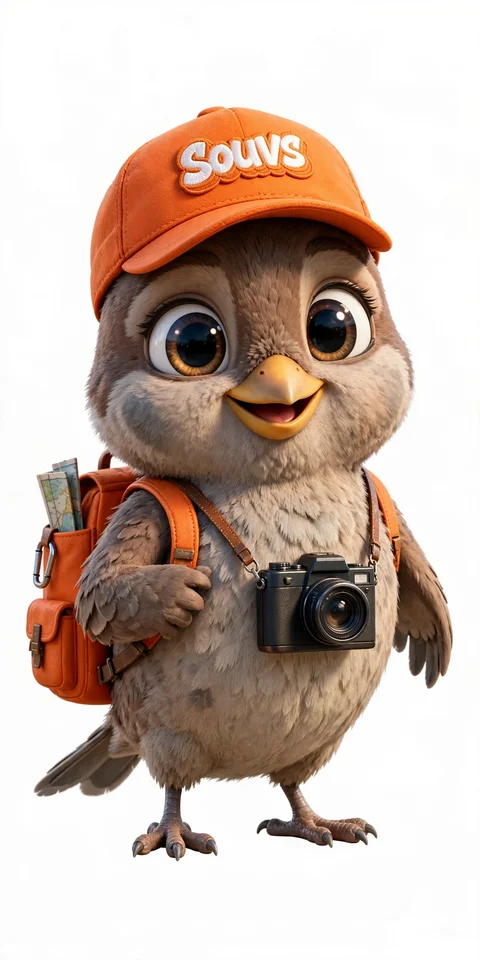
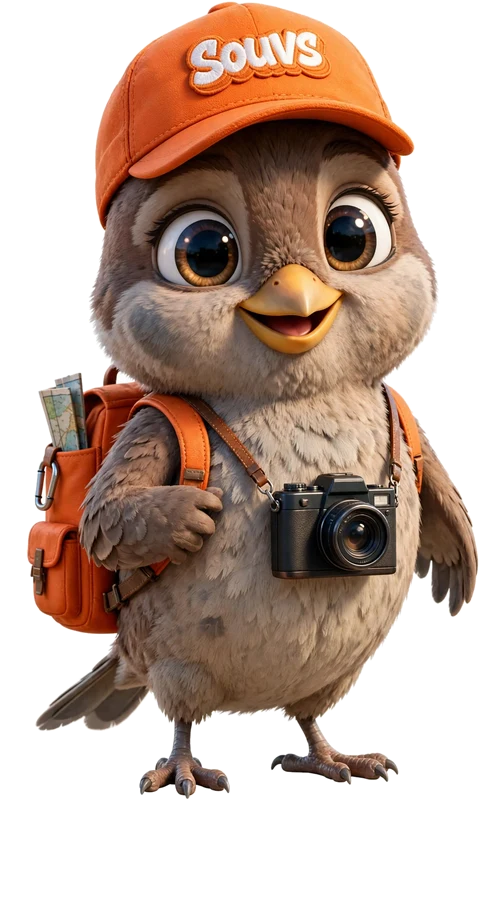
Mascot: transparent cutout + added to home hero

diff --git a/index.html b/index.html
@@ -70,7 +70,7 @@
     .view{display:none;animation:appear .26s ease both}.view.active{display:block}@keyframes appear{from{opacity:.2;transform:translateY(8px)}to{opacity:1;transform:none}}
     h1,h2,h3{margin-top:0;letter-spacing:-.045em;line-height:.96;font-weight:900}.eyebrow{margin:0 0 10px;color:var(--pink-dark);font-size:12px;line-height:1;letter-spacing:.08em;text-transform:uppercase;font-weight:900}
     .primary,.secondary,.text-button{border:0;cursor:pointer;font-weight:900}.primary{min-height:48px;padding:13px 20px;border-radius:16px;background:var(--pink);color:#fff;box-shadow:4px 5px 0 var(--navy)}.secondary{min-height:44px;padding:11px 15px;border:1px solid var(--line);border-radius:14px;background:#fff;color:var(--navy)}.text-button{padding:9px 4px;background:transparent;color:var(--pink-dark)}
-    .hero{position:relative;isolation:isolate;overflow:hidden;padding:22px 42px 14px;background:transparent}
+    .hero{position:relative;isolation:isolate;overflow:hidden;padding:22px 42px 14px;background:transparent;display:flex;align-items:flex-end;justify-content:space-between;gap:12px}.hero-mascot{position:relative;z-index:5;flex:none;height:clamp(150px,24vw,270px);width:auto;pointer-events:none;filter:drop-shadow(0 16px 22px rgba(20,16,40,.35))}
     .hero-copy{position:relative;z-index:5;max-width:630px}.hero-hello{margin:0 0 2px;font-size:clamp(22px,2.8vw,38px);line-height:1;font-weight:900;letter-spacing:-.02em;color:var(--navy)}.hero h1{max-width:660px;margin:6px 0 8px;color:var(--navy);font-size:clamp(52px,7vw,92px);line-height:.84}.hero-sub{max-width:560px;margin:0 0 10px;color:var(--muted);font-size:26px;font-weight:700}.hero-actions{position:relative;z-index:8;display:flex;flex-wrap:wrap;align-items:stretch;justify-content:flex-end;gap:14px}html[data-has-profile="1"] [data-i18n="hero_join"]{display:none}html[data-has-profile="1"] [data-i18n="meet_cta"]{display:none}
     @keyframes float{50%{translate:0 -7px}}
     .guide-section{margin-top:14px}.guide-grid.slideshow{display:block;position:relative}.guide-grid.slideshow .guide-card{display:none;width:100%}.guide-grid.slideshow .guide-card.slide-on{display:grid;animation:guideSlideIn .45s ease}@keyframes guideSlideIn{from{opacity:0;transform:translateX(36px)}to{opacity:1;transform:none}}.guide-dots{display:flex;justify-content:center;gap:8px;margin:14px 0 0}.guide-dots button{width:10px;height:10px;border-radius:999px;border:0;background:rgba(255,255,255,.45);cursor:pointer;padding:0}.guide-dots button.on{background:var(--navy);transform:scale(1.3)}.section-title{display:flex;justify-content:space-between;align-items:end;gap:28px;margin:0 6px 25px;color:#fff}.section-title h2,.screen-head h1{margin:0;font-size:clamp(38px,5vw,62px);line-height:.95}.section-title>p{max-width:410px;margin:0;font-size:17px}.section-title .eyebrow,.screen-head .eyebrow{color:#fff}.guide-grid{display:grid;grid-template-columns:repeat(2,minmax(0,1fr));gap:18px}.guide-card{position:relative;overflow:hidden;min-height:238px;display:grid;grid-template-columns:43% 57%;padding:0;border:0;border-radius:30px 22px 34px 25px;background:transparent;text-align:left;cursor:pointer;transition:transform .2s ease}.guide-card:nth-child(even){border-radius:22px 34px 24px 31px}.guide-card:hover{transform:translateY(-4px)}.guide-card.pink .guide-nameblock{background:var(--violet)}.guide-card.peach .guide-nameblock{background:var(--peach)}.guide-card.violet .guide-nameblock{background:var(--mint)}.guide-art{position:relative;overflow:hidden;min-height:100%}.guide-art img{position:absolute;left:0;bottom:0;width:100%;max-width:none;height:100%;object-fit:contain;object-position:center;transform:scale(.94);filter:drop-shadow(0 15px 15px rgba(42,32,72,.16))}.guide-copy{position:relative;display:flex;flex-direction:column;align-items:flex-start;padding:27px 24px 23px 4px;color:var(--navy)}.guide-nameblock{display:block;background:var(--blue);border-radius:18px 14px 19px 15px;padding:12px 16px 13px}.guide-nameblock h3{margin:0 0 4px;font-size:clamp(29px,3vw,42px)}.guide-nameblock .guide-role{margin:0;font-weight:800}.guide-line{margin:0 0 17px;font-size:15px}.tags{display:flex;flex-wrap:wrap;gap:5px;margin-bottom:10px}.tags span{padding:4px 7px;border-radius:8px;background:rgba(255,255,255,.48);font-size:10px;font-weight:800}.guide-copy strong{margin-top:10px;padding:8px 10px;border-radius:10px;background:var(--blue);color:#fff;font-size:13px}
@@ -89,7 +89,7 @@
     @media(max-width:640px){
       .app{padding:max(4px,env(safe-area-inset-top)) 12px 104px}.header{min-height:92px;padding:0 2px 4px}.logo{width:auto;height:46px;max-width:64vw;flex-shrink:1}.city-button{min-height:40px;padding:8px 10px;font-size:13px}.city-menu{position:fixed;top:max(72px,calc(env(safe-area-inset-top) + 58px));right:12px}
       .lang-menu{position:fixed;top:max(72px,calc(env(safe-area-inset-top) + 58px));right:12px}
-      .hero{padding:6px 20px 4px;border-radius:29px 22px 33px 24px}.hero h1{max-width:390px;font-size:52px}.hero-sub{max-width:340px;font-size:20px}
+      .hero{padding:6px 20px 4px;border-radius:29px 22px 33px 24px}.hero h1{max-width:390px;font-size:52px}.hero-sub{max-width:340px;font-size:20px}.hero-mascot{height:132px}
       .guide-section{margin-top:6px}.section-title{display:block}.section-title h2,.screen-head h1{font-size:42px}.section-title>p{margin-top:12px;font-size:15px}.guide-grid{grid-template-columns:1fr;gap:13px}.guide-card{min-height:224px;grid-template-columns:42% 58%}.guide-copy{padding:22px 18px 20px 2px}.meetup-section{margin-top:48px;padding:27px 20px;border-radius:28px 21px 31px 23px}.meetup-head h2{font-size:42px}#homeView .meetup-head h2{font-size:clamp(26px,8.5vw,32px);white-space:nowrap}#homeView .meetup-head>p{font-size:clamp(11px,3.4vw,13px);white-space:nowrap}#meetSection .meetup-head h2{font-size:clamp(16px,5.2vw,21px);white-space:nowrap}.meet-choice{grid-template-columns:1fr}.meet-grid{grid-template-columns:repeat(3,minmax(0,1fr));gap:8px}.meet-card{grid-template-columns:1fr;padding:17px 14px}.profile-card{flex-direction:column}.meet-avatar,.meet-avatar-img{width:156px;height:156px}.meet-card button{width:100%;grid-column:1/-1}.profile-travelers{grid-template-columns:repeat(3,minmax(0,1fr));gap:8px;align-items:stretch}.meet-grid{align-items:stretch}.profile-travelers.profile-travelers .meet-card,.meet-grid .meet-card{padding:10px 8px;gap:6px;align-content:start}.profile-travelers .meet-sayhi,.meet-grid .meet-sayhi{margin-top:auto;font-size:12px;padding:8px 10px;border-radius:10px}.profile-travelers .meet-card .meet-note,.meet-grid .meet-card .meet-note,.profile-travelers .meet-card p.muted,.meet-grid .meet-card p.muted{display:none}.profile-travelers .meet-avatar,.meet-grid .meet-avatar,.meet-avatar-img,.meet-grid .meet-avatar-img,.profile-travelers .meet-avatar-img{width:84px;height:84px;font-size:30px;border-radius:26px 20px 28px 22px}.profile-travelers .meet-card h3,.meet-grid .meet-card h3{font-size:13px;margin:5px 0 2px;line-height:1.2}.profile-travelers .meet-card p,.meet-grid .meet-card p{font-size:10px;margin:3px 0;line-height:1.35}.profile-travelers .meet-kind span,.meet-grid .meet-kind span{font-size:8px;padding:3px 6px}.profile-travelers .meet-card button,.meet-grid .meet-card button{padding:8px 6px;font-size:11px}.deal-banner{grid-template-columns:1fr;padding:20px 13px 12px;margin-top:48px}.deal-copy h2{font-size:31px}.deal-copy{display:flex;flex-direction:column;align-items:center;justify-content:center;text-align:center;min-height:100%}.deal-copy .primary{align-self:center}.gift{width:290px;height:270px}
       .screen-head{margin-top:18px}.guide-tabs{gap:16px}.guide-tabs img{width:168px;height:168px}.chat-shell{grid-template-columns:1fr;min-height:670px;border-radius:24px}.chat-profile{padding:26px 18px}.chat-profile img{width:auto;max-width:88%;max-height:380px;height:auto}.chat-profile h2{font-size:32px}.messages{min-height:340px;padding:15px}.bubble{max-width:90%}.suggestions{display:grid;grid-template-columns:1fr;align-items:stretch}.suggestions button{text-align:left}.composer{padding:10px}.composer button{padding-inline:12px}
       .tour-hero{grid-template-columns:1fr;padding:22px}.tour-progress{text-align:left}.tour-controls,.stops{padding-inline:18px}.stop{grid-template-columns:37px minmax(0,1fr) 56px;gap:9px}.stop h3{font-size:21px}.stop p{font-size:12px}.stop-guide{width:54px;height:58px}.tour-callout{margin-inline:18px}.perk-stage{gap:12px}.unbox-panel{min-height:390px;padding:20px}.gift.openable{width:230px;height:220px}.claim-card{padding:22px}.claim-card h2{font-size:38px}.wallet{padding:21px}.wallet-head h2{font-size:29px}.wallet-grid{grid-template-columns:1fr}
@@ -193,7 +193,7 @@ body.redeeming .app{display:none}
     <section class="view active" id="homeView" data-view="home">
       <section class="hero">
         <div class="hero-copy"><p class="hero-hello" id="heroHello">hello, NYC</p><p class="hero-sub" id="heroSub"></p><div class="hero-actions"><button class="primary" data-go="profile" data-i18n="hero_join">Join us</button><button class="primary" id="heroPick" data-go="chat" data-i18n="hero_pick">hey, Souvs</button></div></div>
-        
+        <img class="hero-mascot" src="img/souvs-mascot.webp" alt="Souvs, your city guide"/>
       </section>
       <section class="meetup-section">
         <div class="meetup-head"><div><h2 data-i18n="meet_title">Make more friends</h2></div><p data-i18n="meet_sub">Connect with another traveler or a local person.</p></div>
